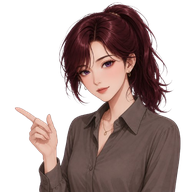
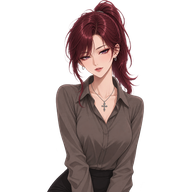
release: refresh Hera portrait and prepare v2.0.2

diff --git a/tests/spikes/editor_ui_capture.py b/tests/spikes/editor_ui_capture.py
@@ -10,12 +10,12 @@ import time
 parser = argparse.ArgumentParser()
 parser.add_argument("--engine", type=Path, required=True)
 parser.add_argument("--out", type=Path, required=True)
-parser.add_argument("--cli", type=Path, required=True, help="released v2.0.1 CLI")
+parser.add_argument("--cli", type=Path, required=True, help="released v2.0.2 CLI")
 parser.add_argument("--theme", choices=["Default", "Light"], default="Default")
 parser.add_argument("--scale", choices=["1", "1.5"], default="1")
 args = parser.parse_args()
 cli = str(args.cli.resolve())
-assert subprocess.check_output([cli, "version"]).decode().strip() == "v2.0.1"
+assert subprocess.check_output([cli, "version"]).decode().strip() == "v2.0.2"
 repo = Path(__file__).resolve().parents[2]
 work = Path(tempfile.mkdtemp(prefix="hera-w2-visual-"))
 print(f"Evidence: {work}", flush=True)

diff --git a/docs/releases/npm-publish-v2.0.2.ko.md b/docs/releases/npm-publish-v2.0.2.ko.md
@@ -1,0 +1,44 @@
+# npm 2.0.2 배포 가이드 (Victor 실행)
+
+GitHub 릴리스와 npm은 별도입니다. 이 작업에서는 **pack만** 수행하며 npm 배포는 Victor가 인증 후 실행합니다. 2.0.1을 먼저 배포할 필요 없이 2.0.2를 배포하세요.
+
+## 1. 준비 및 로그인
+
+PowerShell에서 다음을 실행하세요.
+
+```powershell
+Set-Location C:\Users\PC\Desktop\Cowork\hera-agent-godot
+npm whoami --registry=https://registry.npmjs.org/
+```
+
+본인의 npm 계정이 나오면 다음으로 진행합니다. 인증 오류라면 `npm login --registry=https://registry.npmjs.org/`을 실행하고 브라우저에서 로그인·2FA를 마친 후 `npm whoami`를 다시 확인하세요. OTP나 인증 토큰을 채팅에 보내지 마세요.
+
+## 2. 배포 파일 확인
+
+```powershell
+npm view hera-godot@2.0.2 version --registry=https://registry.npmjs.org/
+npm publish ./packaging/npm/hera-godot-2.0.2.tgz --dry-run --access public --registry=https://registry.npmjs.org/
+```
+
+첫 명령에서 버전이 없다는 E404가 나오면 아직 미배포 상태입니다. 이미 2.0.2가 나온다면 아래 배포를 반복하지 말고 게시된 `dist.integrity`를 릴리스 기록과 비교하세요. 두 번째 명령은 배포하지 않고 `hera-godot@2.0.2`와 파일 목록을 보여줍니다. 반드시 준비된 `.tgz`를 지정하세요.
+
+## 3. 실제 배포 — 이 한 번만 직접 실행
+
+```powershell
+npm publish ./packaging/npm/hera-godot-2.0.2.tgz --access public --tag latest --registry=https://registry.npmjs.org/
+```
+
+npm이 요청하면 인증 앱의 현재 OTP 또는 브라우저 보안 키 인증으로 완료하세요. OTP를 명시해야 하는 환경에서는 위 명령 끝에 `--otp=현재코드`를 붙여 실행합니다. 코드 대신 예시 문자열을 그대로 입력하지 마세요.
+
+`+ hera-godot@2.0.2`가 성공 표시입니다. 네트워크 오류로 결과가 불명확하면 아래 조회로 게시 여부를 먼저 확인하세요. 같은 버전은 재게시할 수 없습니다.
+
+## 4. 게시 검증
+
+```powershell
+npm view hera-godot@2.0.2 version dist.integrity --registry=https://registry.npmjs.org/
+npm view hera-godot dist-tags --json --registry=https://registry.npmjs.org/
+```
+
+버전 2.0.2, 릴리스 기록과 같은 integrity, `latest: 2.0.2`를 확인하세요. 성공 출력만 Codex에게 알려주면 녹화용 별도 npm prefix 설치와 실제 CLI 검증을 이어갑니다. 기존 전역 `hera`를 건드릴 필요는 없습니다.
+
+참고: [npm publish 공식 문서](https://docs.npmjs.com/cli/commands/npm-publish/), [npm 2FA 공식 안내](https://docs.npmjs.com/accessing-npm-using-2fa).

diff --git a/docs/releases/v2.0.2-asset-store-upload.md b/docs/releases/v2.0.2-asset-store-upload.md
@@ -1,0 +1,27 @@
+# v2.0.2 release and Asset Store upload
+
+## Change
+
+Replace the editor character, README logos and store thumbnails with the owner-supplied Hera portrait. The addon ships a fitted 192×192 RGBA copy (34,065 bytes), with aspect ratio preserved. Full source: `docs/assets/hera_new.png`. Panel asset path, CLI behavior and addon-only installation contract are unchanged.
+
+Historical v2.0.1 release archives and screenshots are preserved. v2.0.2 is a separate release, not a replacement tag. Homebrew PR #3 for 2.0.1 was reviewed and merged on 2026-10-16 (42b52acc4e347471a82cf44ae9136af8c7ebdb71).
+
+## Store preparation
+
+Victor submits the store form. Use Version Name **v2.0.2**, stable, minimum Godot **4.2**, maximum blank. Keep summary, detailed description and standing footer from [v2.0.1](v2.0.1-asset-store-upload.md). Use this changelog:
+
+```text
+Update: refresh the Hera character and branding; the panel portrait is bundled inside the addon for installed projects.
+```
+
+The previous AI Usage Explanation says no art is bundled, which no longer describes the portrait. Replace that field with the factual copy below; supplied-art authorship is not inferred:
+
+```text
+Built with AI coding agents under human direction and validated with Go tests, Godot checks and live editor smoke runs. Screenshots are real editor captures. The addon bundles the Hera portrait supplied by the project owner.
+```
+
+Use `docs/assets/hera-godot-logo-512.png` for the new square logo and `docs/assets/thumbnail.png` or `thumbnail.webp` for the new thumbnail. These are resized versions of the supplied portrait; no new artwork was generated. Five live editor captures will be listed below after capture from the published addon ZIP and released CLI.
+
+## npm
+
+Pack only; Victor publishes. Follow the [Korean npm guide](npm-publish-v2.0.2.ko.md). Recording remains on hold until npm 2.0.2 is publicly available.

diff --git a/docs/ROADMAP.md b/docs/ROADMAP.md
@@ -1,6 +1,8 @@
 # Roadmap
 
-Current GitHub release: **v2.0.1**, addon manifest `2.0.1` (2026-10-16).
+Preparing **v2.0.2**: owner-supplied Hera portrait replaces panel, README logos and store thumbnails. Full source: `docs/assets/hera_new.png`; addon uses a fitted 192×192 copy. Historical released ZIPs/captures remain unchanged. Homebrew 2.0.1 PR #3 merged on 2026-10-16; the 2.0.2 channel update follows verified release hashes. npm remains owner-published; recording waits for npm 2.0.2.
+
+Previous GitHub release: **v2.0.1**, addon manifest `2.0.1` (2026-10-16).
 
 Fix: the Hera character in the editor panel now ships with the addon (it was missing in installed projects).
 The 192×192 alpha image is addon-local; regression and capture fixtures have no
@@ -15,13 +17,13 @@ no-docs GUI capture pass. A startup-only CI import race was corrected by bounded
 read-only smoke retries for editor_busy; other errors still fail immediately.
 
 Scoop main pins v2.0.1. [Homebrew PR #3](https://github.com/NotNull92/homebrew-hera/pull/3)
-is open for Claude to merge. npm 2.0.1 is packed only (owner publication pending);
+merged on 2026-10-16. npm 2.0.1 is packed only (owner publication pending);
 registry still reports 2.0.0 at the check. Store ZIP, unchanged description/footer,
 patch changelog and five real-addon screenshots are prepared, not submitted.
 [Release and upload record](releases/v2.0.1-asset-store-upload.md) ·
 [gate evidence](reports/2026-10-16-v2.0.1-release-gates.md).
 
-Recording preparation is paused until npm 2.0.1 is published. Only the recording
+Recording preparation is paused until npm 2.0.2 is published. Only the recording
 editor/terminal were closed; the demo was not re-prepared. The frozen prompt is
 unchanged. v2.0.0's publication and Victor's 2026-10-16 store submission remain
 recorded in [its historical record](releases/v2.0.0-asset-store-upload.md).

diff --git a/README.ko.md b/README.ko.md
@@ -53,14 +53,14 @@ C# 또는 명시적으로 선택한 GDScript 평가 등. 에이전트가 낡은 
 프로젝트로, 동일한 저토큰·쉘 친화 철학을 따르며 **포팅이 아니라 Godot에 맞춰
 새로 설계**했습니다.
 
-## 현재 저장소 기준: v2.0.1
+## 현재 저장소 기준: v2.0.2
 
-설치한 프로젝트에서 빠졌던 패널의 Hera 캐릭터를 애드온에 포함했습니다.
-애드온과 GitHub Release는 `2.0.1`입니다(2026-10-16). Scoop은 갱신했습니다.
-npm 2.0.1은 pack만 완료했고 배포하지 않았으며, Homebrew
-[PR #3](https://github.com/NotNull92/homebrew-hera/pull/3)는 열려 있습니다.
+패널 캐릭터·README 로고·스토어 썸네일을 새 Hera 이미지로 교체했습니다.
+애드온과 GitHub Release는 `2.0.2`입니다(2026-10-16). Scoop은 갱신했습니다.
+npm 2.0.2은 pack만 완료했고 배포하지 않았으며, Homebrew
+[PR #4](https://github.com/NotNull92/homebrew-hera/pull/4)는 열려 있습니다.
 스토어 입력값과 새 스크린샷은 Victor의 제출을 위해 준비했습니다.
-[릴리스·채널 기록](docs/releases/v2.0.1-asset-store-upload.md).
+[릴리스·채널 기록](docs/releases/v2.0.2-asset-store-upload.md).
 
 `v2.0.0`은 eval 기본 언어를 C#으로 변경하며 C# 검증·실행과 한영 패널을
 추가합니다. 기존 안정 JSON 필드 타입은 유지됩니다.
@@ -360,5 +360,5 @@ Hera는 무료이며 MIT 라이선스입니다. 도움이 되었다면 개발을
 
 MIT — [LICENSE](LICENSE) 참고.
 
-C# helper / C# 헬퍼: `hera-godot csharp-host install --version v2.0.1`
+C# helper / C# 헬퍼: `hera-godot csharp-host install --version v2.0.2`
 (npm/Scoop/Homebrew install only the CLI / 패키지 매니저는 CLI만 설치).

diff --git a/README.md b/README.md
@@ -46,13 +46,13 @@ language and design principles that keep new features aligned.
 Sibling of [`hera-agent-unity`](https://github.com/NotNull92/hera-agent-unity) —
 same low-token, shell-native philosophy, **designed for Godot**, not ported.
 
-## Current in-repo baseline: v2.0.1
+## Current in-repo baseline: v2.0.2
 
-Fix: the Hera character in the editor panel now ships with the addon (it was missing in installed projects).
-Addon manifest and GitHub Release are `2.0.1` (2026-10-16). Scoop is updated;
-npm 2.0.1 is packed but not published, and Homebrew [PR #3](https://github.com/NotNull92/homebrew-hera/pull/3)
+Refresh: the editor character, README logos and store thumbnails use the new Hera portrait.
+Addon manifest and GitHub Release are `2.0.2` (2026-10-16). Scoop is updated;
+npm 2.0.2 is packed but not published, and Homebrew [PR #4](https://github.com/NotNull92/homebrew-hera/pull/4)
 is open. Store fields and new screenshots are prepared for Victor's submission.
-[Release/channel record](docs/releases/v2.0.1-asset-store-upload.md).
+[Release/channel record](docs/releases/v2.0.2-asset-store-upload.md).
 
 `v2.0.0` changes the default eval language to C# and adds C# validation/run and
 the bilingual editor panel. Existing stable JSON field types remain unchanged.
@@ -362,5 +362,5 @@ Hera is free and MIT-licensed. If it saves you time, you can support development
 
 MIT — see [LICENSE](LICENSE).
 
-C# helper / C# 헬퍼: `hera-godot csharp-host install --version v2.0.1`
+C# helper / C# 헬퍼: `hera-godot csharp-host install --version v2.0.2`
 (npm/Scoop/Homebrew install only the CLI / 패키지 매니저는 CLI만 설치).

diff --git a/docs/releases/v2.0.1-asset-store-upload.md b/docs/releases/v2.0.1-asset-store-upload.md
@@ -195,7 +195,7 @@ check-only, live smoke and GUI inspection pass. Candidate CI is 7/7.
 | --- | --- |
 | GitHub | v2.0.1 published; nine assets downloaded and eight archive hashes verified |
 | Scoop | main manifest pins v2.0.1 URLs and both verified Windows hashes |
-| Homebrew | [tap PR #3](https://github.com/NotNull92/homebrew-hera/pull/3) open, not merged; four verified macOS/Linux hashes and version test updated |
+| Homebrew | [tap PR #3](https://github.com/NotNull92/homebrew-hera/pull/3) merged 2026-10-16 (42b52acc); four verified macOS/Linux hashes and version test updated |
 | npm | v2.0.1 packed only; v2.0.0 is still the published registry version at this check |
 | Asset Store | v2.0.1 ZIP/fields/media prepared; submission remains Victor's task |
 
@@ -211,3 +211,7 @@ were checked. No npm publish, OTP prompt, global npm update, Homebrew merge or
 store submission was attempted. Homebrew native installation was not run on
 Windows. Recording preparation remains paused until npm 2.0.1 is published;
 do not reopen/re-prepare the demo yet.
+
+## Subsequent branding update
+
+On 2026-10-16 the owner supplied `hera_new.png` and requested the portrait, logos and thumbnails be replaced. These current documentation image paths now show the new portrait; the v2.0.1 release ZIP and its five historical editor captures remain unchanged. New installable branding is released separately as v2.0.2. Homebrew PR #3 merged at 07:35:20 UTC (42b52acc4e347471a82cf44ae9136af8c7ebdb71).

diff --git a/demo/td-csharp/README.md b/demo/td-csharp/README.md
@@ -6,14 +6,14 @@ game scripts, populated scenes and captures are produced during the run.
 
 ## Prepare
 
-Recording preparation is paused until npm **2.0.1** is published; run the steps
+Recording preparation is paused until npm **2.0.2** is published; run the steps
 below after owner publication.
 
 Install Godot **4.7.2 .NET** and the **.NET 8 SDK** (the runtime alone is not
 enough for Godot's build/reload tooling). Install the published CLI:
 
 ```powershell
-npm install -g hera-godot@2.0.1
+npm install -g hera-godot@2.0.2
 $release = Join-Path (npm prefix -g) 'hera-godot.cmd'
 ./prepare.ps1 -HeraCli $release
 ```
@@ -33,7 +33,7 @@ Use a separate profile for rehearsal, following
 the CLI/editor. Ensure `dotnet` resolves the .NET 8 SDK. Open this folder in a
 GUI editor, enable Hera, turn **Game Feel Mode** and **Game Feel UI Mode** on,
 and open `Main.tscn`. Confirm `status --capabilities` identifies this project
-and CLI/addon 2.0.1. Keep the user's other editor untouched; select the isolated
+and CLI/addon 2.0.2. Keep the user's other editor untouched; select the isolated
 editor with `--instance <pid>`.
 
 After the manual intro, start the agent timer and submit only the text inside

diff --git a/docs/DEV_MACHINE.md b/docs/DEV_MACHINE.md
@@ -7,6 +7,9 @@ of re-discovering it; date the entries that are point-in-time observations.
 
 ## Godot on this machine
 
+- **Branding follow-up (2026-10-16)**: target release and recording CLI are now 2.0.2. Homebrew PR #3 (2.0.1) was reviewed and merged at 07:35:20 UTC. Keep recording preparation on hold until owner npm 2.0.2 publication. The full supplied portrait is `docs/assets/hera_new.png`; addon ships only the 192×192 fitted copy.
+
+
 - **v2.0.1 recording hold (2026-10-16)**: recording editor/terminal closed for
   the panel-character patch. The normal-profile npm release prefix and helper
   remain 2.0.0; they were not upgraded/re-prepared. GitHub/Scoop 2.0.1 is
